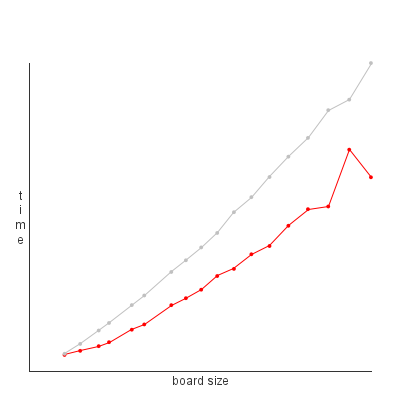
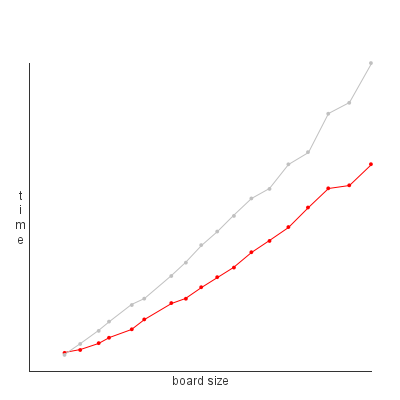
readme and time results updated

diff --git a/README.md b/README.md
@@ -7,11 +7,13 @@ Questions:
 The function that fits the graph is f(n) = n. Despite there being some inconsistencies, the graph largely aligns with f(n) = n.
 
 2. What is the time complexity of your flood() function based on analyzing its code?
-   Based on analyzing our flood() code, the time complexity is O(n). The first step was initializing the linked list and the array. The initialization of the linked list was O(1), but the array was O(n) as the program had to run through the board's values to get the array size. The next step is a for loop that initializes coordinates to the linked list. The for loop linearly iterated through flooded_list, which would have an O(n) time complexity. The next step is the while loop that runs until the linked list is empty. In this while loop, the first element of the queue is removed, which is an O(1) time complexity. Then, there is a for loop that loops through the tile coordinates to see if they have been visited. If they have not, they are flooded and marked as visited, and the neighbor coordinates are added to flooded_list and queue. This has an O(1) time complexity because there is always a constant number of neighbors to any given coordinate. The worst time complexity among all of the code's pieces is O(n), therefore this is the overall time complexity. This is a linear function, making it f(n) = n.
+Based on analyzing our flood() code, the time complexity is O(n). The first step was initializing the linked list and the array. These initializations have a time complexity of O(1). The next step is a for loop that initializes coordinates to the linked list. The for loop linearly iterated through flooded_list, which would have an O(n) time complexity. The next step is the while loop that runs until the linked list is empty. In this while loop, the first element of the linked list is removed, which has an O(1) time complexity. Then, there is a for loop that loops through the tile coordinates to see if they have been visited. If they have not, they are flooded and marked as visited, and the neighboring coordinates are added to flooded_list and queue. This has an O(1) time complexity because there is always a constant number of neighbors to any given coordinate. The for loop has an O(1) time complexity as this is the worst case within it. The overall while loop also has an O(1) time complexity as all of its pieces are O(1). The worst time complexity among all of the code's pieces is O(n), therefore this is the overall time complexity. This is a linear function, making it f(n) = n.
+
 3. Does your analysis match up with what you see in the graph?
 The analysis does match with the graph, as the graph shows a linear function -> f(n) = n. The time complexity concluded from our analysis is O(n), which is a linear function.
-4. What data structures did you use (linked lists, arrays…) ? Is the time complexity of your flood function the best it can be or can you do better? Why?
-We used arrays and linked lists to reach our optimal time complexity of O(n). We don't believe it can be improved beyond O(n) due to the constraints of a linked list, but we can try to create a more optimal O(n) function by using arrays and linked lists and separating the search through x and y coordinates. 
-5. What is the time complexity of your alternative implementation? Comment the function with its time complexity in your code and write down the time complexity in your write-up.
-The time complexity of our alternative implementation is also O(n), but it is a more optimal O(n) with a smaller rate of change. 
 
+4. What data structures did you use (linked lists, arrays…) ? Is the time complexity of your flood function the best it can be or can you do better? Why?
+We used arrays and linked lists to reach our optimal time complexity of O(n). We don't believe it can be improved beyond O(n) due to the constraints of a linked list, but we can try to create a more optimal O(n) function. This can be done by using more standard library functions of linked lists instead of hardcoding it ourselves. In addition, we can store the neighbor offsets locally instead of depending on a method that could be time inefficient.
+
+5. What is the time complexity of your alternative implementation? Comment the function with its time complexity in your code and write down the time complexity in your write-up.
+The time complexity of our alternative implementation is also O(n), but it is a more optimal O(n) with a smaller rate of change. To break this down, the code starts with an array and linked list initialization, which is an O(1) time complexity. Then there is a for loop that loops through flooded_list, initializing coordinates to the array. Because this loops through flooded_list, it has an O(n) time complexity. Then, there is a while loop that runs until the linked list is empty. Within the while loop, the first member of queue is removed with the “poll” method, which has an O(1) time complexity. Then, an array of neighbor offsets are initialized, which has an O(1) time complexity. There is then a for loop nested in the while loop that loops through all of the neighbor offset possibilities. In this for loop, neighbor coordinates are first calculated. Since these are constant arithmetic operations, the time complexity is O(1). Then, new coordinate neighbors are created in an If statement, which has an O(1) time complexity. There is a second if statement where values are entered into the visited array and the neighbor coordinates are added to queue. This has an O(1) time complexity because the program is just adding elements. The for loop overall has an O(1) time complexity because that is the worst case within it. The while loop also has an O(1) time complexity because its code and the for loop within it all have O(1) time complexities. The worst time complexity in the entire code is O(n), making it the overall time complexity. 
